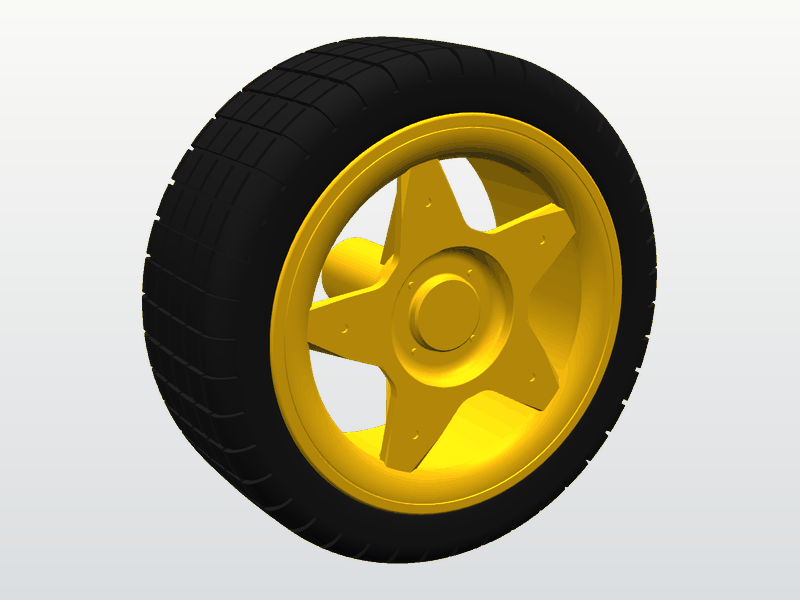
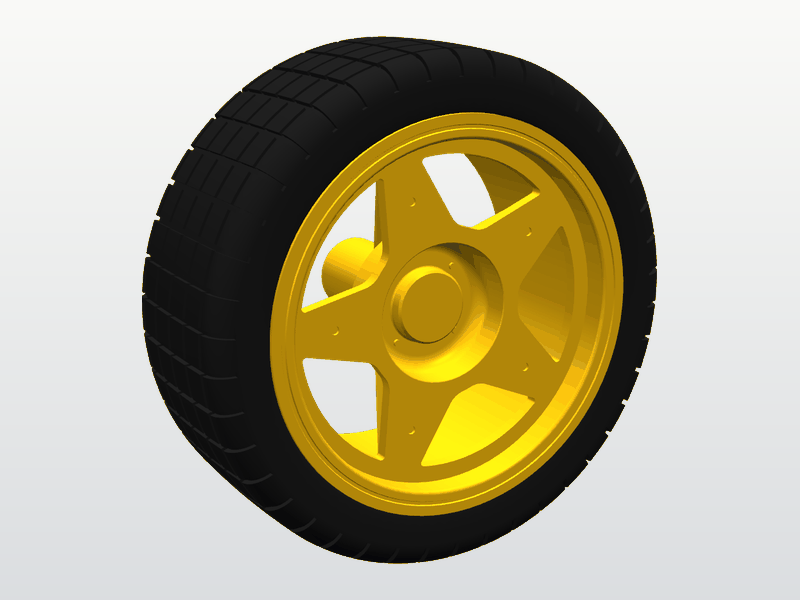
Wheel: provenance, README row and pictures for the measured rim
The provenance page describes the barrel's four grooves, the outer flange's
face, the lip and the spoke plate with their sources, lists what is estimated
from photos, and asks for the measurements that would settle it. The README row
has the new triangle count and file sizes, and both pictures show the new rim.

Changed region(s): [[0.3438, 0.18, 0.7812, 0.87]]

diff --git a/provenance/tt_motor_wheel_65mm.md b/provenance/tt_motor_wheel_65mm.md
@@ -8,10 +8,13 @@ Generator: [`generators/tt_motor_wheel_65mm.py`](../generators/tt_motor_wheel_65
 
 ## Mesh
 
-`tt_motor_wheel_65mm`: one mesh with two sub-parts, `rim` (material `rim`, yellow) and `tyre` (material `tyre`, black). Each is a closed solid, and they don't intersect. The STL file is closed and consistently oriented: two closed shells, with a modelling clearance of 0.02 mm where the tyre sits on the rim (at least 0.0097 mm between them).
+`tt_motor_wheel_65mm`: one mesh with two sub-parts, `rim` (material `rim`, yellow) and `tyre` (material `tyre`, black). Each is a closed solid, and they don't intersect. The STL file is closed and consistently oriented: two closed shells, with a modelling clearance of 0.02 mm where the tyre sits on the rim.
 
-- **Rim:** a barrel with a flange at each end (Ø51.22 mm, 25.00 mm flange to flange), three ridges between them, plain bands next to the flanges and two pockets between the ridges (Ø47.91 mm), seven axial ribs across the pockets, Ø45.1 mm inside. On the outer face the flange's ring curves inward into the windows. In the centre a bowl is recessed into the spokes' flat central face, its edge in that face (Ø17.9 mm). Its wall runs almost straight down to the depth of the boss's top (Ø17.62 mm there), then rounds into a flat floor (Ø13.8 mm) with four small pins. The boss (Ø9.69 mm) stands on the floor, its top 1.2 mm below the spokes' face. Behind the face the bowl's outside (Ø20.64 mm) shows through the windows. Five tapered, swept spokes with a bevel and a mark, curved blends into the central face, and behind each spoke a narrow web and a fin up the hub tube. On the motor side the hub tube (Ø9.95 mm) on a collar (Ø15.27 mm), the double-D bore (Ø5.44 mm across the round sides), the tube standing 3.42 mm past the flange.
-- **Tyre:** Ø66.6 mm, a hollow section like a car tyre's. The beads at its inner diameter (Ø49.4 mm) sit inside the rim, each in the plain band between a flange and the outer ridge, held there because the bead is smaller than both. The bead lip, where the bead touches the rim, is 0.74 mm thick. The sidewalls rise over the flanges and are widest halfway up (Ø59.2 mm), flush with the flanges' faces, 25.00 mm across. The crown is a little narrower and slightly crowned. Inside, an arched channel spans the barrel's three ridges: its ceiling lies 5.8 mm below the tread in the middle and 7.5 mm near the beads (the wall readings, their places across the tyre assumed). Six block columns and 42 rows of nearly square blocks.
+- **Barrel:** 25.00 mm wide, with a flange at each end (Ø51.22 mm), four grooves and three ridges between them (groove bottoms Ø47.91 mm, ridges Ø50.9 mm), and seven axial ribs across the two middle grooves. From the outer flange towards the motor side: a rectangular groove 3.9 mm wide, a groove 5.8 mm wide at the top and 4.1 mm at the bottom with two sloped walls, a groove 4.8 mm wide at the top and 3.9 mm at the bottom whose wall on the outer-face side is vertical, and a rectangular groove 3.9 mm wide. The flanges' outer corners are sharp, their inner corners round.
+- **Outer face:** the outer flange's face is flat and 3.2 mm high, with a fine groove 0.6 mm wide, 1.3 mm from each edge. Inside the flange the barrel is Ø44.82 mm and plain for 3.5 mm. Then a lip 1.7 mm wide stands inward to Ø40.5 mm. Behind the lip the barrel is Ø45.1 mm to the motor-side end.
+- **Spokes and hub:** the lip, five spokes and the hub's flat face are one plate, 1.7 mm thick, its face 3.5 mm behind the outer flange face. The spokes are flat and symmetric about a radial centre line. They taper from 8.9 mm near the hub to 5.35 mm where they run into the lip, with curved blends at both ends and a round mark on each. In the centre a bowl is recessed into the face, its edge in that face (Ø17.9 mm). Its wall runs almost straight down to the depth of the boss's top (Ø17.62 mm there), then rounds into a flat floor (Ø13.8 mm) with four small pins, 5.0 mm below the face. The boss (Ø9.69 mm) stands on the floor, its top 3.0 mm below the face. Behind the face the bowl's outside (Ø20.64 mm) shows through the windows. Behind each spoke are a narrow web and a fin up the hub tube.
+- **Motor side:** the hub tube (Ø9.95 mm) on a collar (Ø15.27 mm), the double-D bore (Ø5.44 mm across the round sides), the tube standing 3.42 mm past the flange.
+- **Tyre:** Ø66.6 mm, a hollow section like a car tyre's. The beads at its inner diameter (Ø49.4 mm) sit inside the rim, each in the groove next to a flange, held there because the bead is smaller than the flange and the ridge. The bead lip, where the bead touches the rim, is 0.74 mm thick. The sidewalls rise over the flanges and are widest halfway up (Ø59.2 mm), flush with the flanges' faces, 25.00 mm across. The crown is a little narrower and slightly crowned. Inside, an arched channel spans the barrel's three ridges: its ceiling lies 5.8 mm below the tread in the middle and 7.5 mm near the beads (the wall readings, their places across the tyre assumed). Six block columns and 42 rows of nearly square blocks.
 
 ## Frame
 
@@ -25,12 +28,13 @@ The tyre's radius is 33.3 mm. The axle lies one URDF wheel radius above `base_fo
 
 | What | Source |
 |---|---|
-| Rim and tyre dimensions (the parameters marked pNN in the generator) | Caliper measurements of a wheel with the tyre taken off the rim, photos p01–p41, taken by the project (not published). Flange Ø51.22 (p01, p41: 51.25), bands and pockets Ø47.91 (p02), barrel wall with flange 3.06 (p28), flange to flange 25.00 (p40), rim length 28.42 (p33), the bowl's outside behind the face Ø20.64 (p24) and its inside Ø17.62 at the boss's top (p21), boss Ø9.69 (p23), spoke width 5.35 at the ring (p25), the spoke's back 3.47 (p18, p19), fin 1.51 (p31), hub tube Ø9.97 and Ø9.92 (p29, p30), collar Ø15.27 (p15), bore Ø5.44 across the round sides (p14), tread to the tyre's inside 5.77, 6.88 and 7.46 (p04–p06), bead to tread 8.38 and 8.82 (p07, p08), the bead lip's thickness where it touches the rim 0.74 (p03) |
+| Rim and tyre dimensions (the parameters marked pNN in the generator) | Caliper measurements of a wheel with the tyre taken off the rim, photos p01–p41, taken by the project (not published). Flange Ø51.22 (p01, p41: 51.25), groove bottoms Ø47.91 (p02), barrel wall with flange 3.06 at the motor-side end (p28), flange to flange 25.00 (p40), rim length 28.42 (p33), the bowl's outside behind the face Ø20.64 (p24) and its inside Ø17.62 at the boss's top (p21), boss Ø9.69 (p23), spoke width 5.35 at its tip (p25), the spoke's back 3.47 (p18, p19), fin 1.51 (p31), hub tube Ø9.97 and Ø9.92 (p29, p30), collar Ø15.27 (p15), bore Ø5.44 across the round sides (p14), tread to the tyre's inside 5.77, 6.88 and 7.46 (p04–p06), bead to tread 8.38 and 8.82 (p07, p08), the bead lip's thickness where it touches the rim 0.74 (p03) |
+| The barrel's grooves, the outer flange's face, the barrel's inside and the hub's depths (the parameters marked "measured" in the generator) | Caliper measurements of the same wheel, taken by the project without photos. The four grooves' widths at their tops and bottoms and their wall shapes. The face's 3.2 mm, with the fine groove 1.3 mm from each edge. 3.5 mm from the outer face to the lip and the lip's 1.7 mm. Sharp outer and round inner corners on both flanges. The bowl's floor 5.0 mm and the boss's top 3.0 mm below the spokes' face |
 | The tyre's section: hollow like a car tyre's, the beads narrower and inside the rim between the flanges, the sidewalls widest halfway up and flush with the flanges, the crown a little narrower | The project's description of the real tyre, with photos p03–p09 |
-| The barrel's profile along the axle (ridges, bands, pockets, ribs) | The silhouette of side photo p37, scaled with the 25.00 mm flange to flange |
-| The outer face's radii and spoke widths (9.3 at r 11.7, 7.7 at r 15.6, 5.4 at r 19.5 mm), the bowl's edge Ø17.9 and floor Ø13.8 mm, four pins on the floor at r 6.15 mm, 90° apart | Face-on photo p41, scaled with its own 51.25 mm reading |
-| The bowl's and the boss's depths (the floor 2.8 mm and the boss's top 1.2 mm behind the spokes' face) | Oblique photo p24, scaled with the bowl's 17.62 mm |
-| Shapes not measured: the ring's curl, the spokes' bevel, the tread | Video frames of DiffBot's wheel, taken by the project (not published). The photo of Remo on ros-mobile-robots.com: [remo_front_side.jpg](https://ros-mobile-robots.com/resources/remo/remo_front_side.jpg) |
+| The flanges' top widths (1.8 and 2.2 mm), the ridges' diameter and the ribs | The silhouette of side photo p37, scaled with the 25.00 mm flange to flange. The three ridges' tops (0.87 mm each) share what the grooves and the flanges leave of the width |
+| The outer face's radii: the lip's inner edge Ø40.5 mm, the spokes' width near the hub (8.9 mm at r 13.2 mm) and their symmetry, the hub's flat face Ø22.4 mm, the bowl's edge Ø17.9 and floor Ø13.8 mm, four pins on the floor at r 6.15 mm, the spokes' marks at r 15.5 mm | Face-on photo p41, scaled with its own 51.25 mm reading. The lip's inner edge also on photo p25 |
+| The lip, the spokes and the hub's face as one plate, the spokes' sides curving into the lip | A close photo across the outer face, taken by the project (not published) |
+| Shapes not measured: the tread | Video frames of DiffBot's wheel, taken by the project (not published). The photo of Remo on ros-mobile-robots.com: [remo_front_side.jpg](https://ros-mobile-robots.com/resources/remo/remo_front_side.jpg) |
 | Tyre outer diameter 66.6 mm | Measured on DiffBot: 66.3 and 66.8 mm, in DiffBot's [`front_wheel.yaml`](https://github.com/ros-mobile-robots/diffbot/blob/noetic-devel/diffbot_description/config/diffbot/front_wheel.yaml) |
 | Bore flats 3.66 mm (not measured) | Product listings: [X2 Robotics, "Rubber Tire Wheel (Yellow 65mm)"](https://x2robotics.ca/wheels/rubber-tire-wheel-yellow-65mm) ("Hole Width Axis: 3.66 mm", "Long Shaft Hole: 5.3 mm") and [VXB](https://vxb.com/products/four-pack-68mm-tt-motor-hub-replacement-diy-kit-fo) ("hole 3.66mm × 5.3mm") |
 | Comparison photos | X2 Robotics' product photos (link above) and [Otronic, "Wheel with rubber for robot or smart car, yellow"](https://otronic.nl/en/wheel-with-rubber-for-robot-or-smart-car-yellow.html) |
@@ -38,17 +42,24 @@ The tyre's radius is 33.3 mm. The axle lies one URDF wheel radius above `base_fo
 
 ## Simplified or estimated
 
-- The tyre's width (flush with the flanges) follows the project's description, not a caliper reading. Estimated: the crown's width (18.6 mm) and drop (0.25 mm), the beads' width (1.8 mm), the channel's width (15.6 mm) and its half-elliptical arch, which takes the p04 reading as the middle and the p06 reading as near a bead (where each was taken isn't recorded), the bowl's and the boss's depths from one oblique photo, the pins' height, and the tread's groove width and depth (0.7 and 0.6 mm).
-- The spokes taper linearly through two of the photo's width estimates: 7.35 mm at r 15.6 mm, where the photo gives 7.7 mm.
+- Estimated from photos: how far the lip stands inward (2.16 mm, to Ø40.5 mm), the flanges' top widths, the spokes' width near the hub, the radii where the spokes' sides curve into the lip (0.5 mm) and into the hub's face (3.0 mm), the round inner corners (0.5 mm) and the fine groove's depth (0.2 mm).
+- The spokes' face lies level with the lip's front, and the plate is as thick as the lip is wide. The photos show the two as one surface. A step of a few tenths of a millimetre between them can't be ruled out.
+- The spokes taper linearly to 5.35 mm where they run into the lip. Where along the spoke's tip this width was measured isn't recorded. The face-on photo shows about 5.9 mm at the lip.
+- Behind the plate, these are estimates: the webs' depth (1.8 mm), the thickness of the bowl's floor (1.2 mm) and of the boss's closed top (0.8 mm), the collar's height (2.0 mm) and how far the fins reach up the hub tube.
+- The barrel's inside diameter behind the lip is measured at the motor-side end. The model keeps it constant up to the lip.
+- The tyre's width (flush with the flanges) follows the project's description, not a caliper reading. Estimated: the crown's width (18.6 mm) and drop (0.25 mm), the beads' width (1.8 mm), the channel's width (15.6 mm) and its half-elliptical arch, which takes the p04 reading as the middle and the p06 reading as near a bead (where each was taken isn't recorded), the pins' height, and the tread's groove width and depth (0.7 and 0.6 mm).
 - The tyre's sidewalls and shoulders are quarter ellipses. The real tyre's inside has thin rings that the model leaves out.
-- The barrel's inside is plain, and the motor-side collar is round. The real collar is scalloped between the fins.
-- The ridges, flanges and ribs have flat faces and sharp edges, except the flanges' outer edges.
+- The motor-side collar is round. The real collar is scalloped between the fins.
+- The ridges, flanges and ribs have flat faces and sharp edges, except the flanges' inner corners.
 
 ## Measurements that would improve the model
 
 With calipers:
 
-1. The tyre on the rim: its width at the sidewalls' widest point and over the tread, and the step from each flange's face to the sidewall (0 if flush).
-2. The tyre off the rim: the wall from the tread's top to the tyre's inside, in the middle of the tread and 7 mm to each side of it.
-3. On the outer face, with the depth rod on the spokes' face: down to the bowl's floor and down to the boss's top.
-4. The tread's groove depth, at a groove between two blocks.
+1. With the depth rod on the outer flange face: down to a spoke's face near its tip, and down to the lip between two spokes.
+2. How far the lip stands inward: one outside jaw through a window on the lip's inner edge, the other on the flange's outer rim.
+3. A spoke's width where it runs into the lip and, if the jaws reach, next to the barrel. Its thickness, with one jaw on its face and one on its back.
+4. The flanges' top widths along the axle, and one ridge's top.
+5. The tyre on the rim: its width at the sidewalls' widest point and over the tread, and the step from each flange's face to the sidewall (0 if flush).
+6. The tyre off the rim: the wall from the tread's top to the tyre's inside, in the middle of the tread and 7 mm to each side of it.
+7. The tread's groove depth, at a groove between two blocks.

diff --git a/README.md b/README.md
@@ -19,7 +19,7 @@ These are display models for visualisation in RViz, Gazebo and web viewers. They
 | [Teensy 4.0 with two 14-pin headers](provenance/teensy_4_0.md) | <img src="docs/images/teensy_4_0.png" width="200" alt="Teensy 4.0"> | `teensy_4_0/teensy_4_0` | Remo | 25,520 | 1,276 / 1,654 / 899 kB |
 | [400-point solderless breadboard](provenance/breadboard_400_point.md) | <img src="docs/images/breadboard_400_point.png" width="200" alt="Breadboard"> | `breadboard_400_point/breadboard_400_point` | Remo | 6,768 | 338 / 428 / 290 kB |
 | [Raspberry Pi Camera Module v2](provenance/raspberry_pi_camera_v2.md) | <img src="docs/images/raspberry_pi_camera_v2.png" width="200" alt="Camera Module v2"> | `raspberry_pi_camera_v2/raspberry_pi_camera_v2` | Remo | 2,976 | 149 / 209 / 116 kB |
-| [Wheel 65 mm for TT gear motors](provenance/tt_motor_wheel_65mm.md) | <img src="docs/images/tt_motor_wheel_65mm.png" width="200" alt="Wheel"> | `tt_motor_wheel_65mm/tt_motor_wheel_65mm` | DiffBot, Remo | 58,084 | 2,904 / 3,427 / 1,443 kB |
+| [Wheel 65 mm for TT gear motors](provenance/tt_motor_wheel_65mm.md) | <img src="docs/images/tt_motor_wheel_65mm.png" width="200" alt="Wheel"> | `tt_motor_wheel_65mm/tt_motor_wheel_65mm` | DiffBot, Remo | 58,868 | 2,943 / 3,435 / 1,460 kB |
 
 Each mesh comes in three files in `meshes/<part>/`, all in metres:
 
